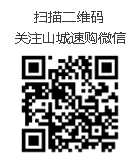
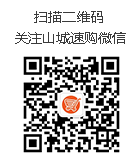
手机二维码修复

diff --git a/views/scsg/layouts/head.html b/views/scsg/layouts/head.html
@@ -124,9 +124,9 @@ $favorite_ids = implode(',',$favorite_id_arr);}
 				</li>
 				<li  class="erwei">
 					<a href="#" class="erwei" title="关注山城速购新浪微博"><img src="{skin:images/weixin1_01.png}"></a>
-					<ul>
+					<!-- <ul>
 						<li style="height:160px;width:140px;border:0;box-shadow: 0 1px 3px #ccc;"><a href="#"><img src="{skin:images/erweima1.png}"></a></li>
-					</ul>
+					</ul> -->
 				</li>
 				<li class="erwei">
 					<a href="#" class="erwei" title="关注山城速购微信"><img src="{skin:images/weixin1_02.png}"></a>

diff --git a/views/scsg/layouts/footer.html b/views/scsg/layouts/footer.html
@@ -44,7 +44,7 @@
 					<span>山城速购APP</span>&nbsp;&nbsp;&nbsp;&nbsp;<span>山城速购官方微信</span>
 				</p>
 				<p class="erweima">
-					&nbsp;<img src="{skin:images/erweima.png}" style="width:80px;height:80px;">&nbsp;<img src="{skin:images/erweima.png}" style="width:80px;height:80px;" class="weixin">
+					&nbsp;<img src="{skin:images/erweima.jpg}" style="width:80px;height:80px;">&nbsp;<img src="{skin:images/erweima.jpg}" style="width:80px;height:80px;" class="weixin">
 				</p>
 			</div>
 		</div>
